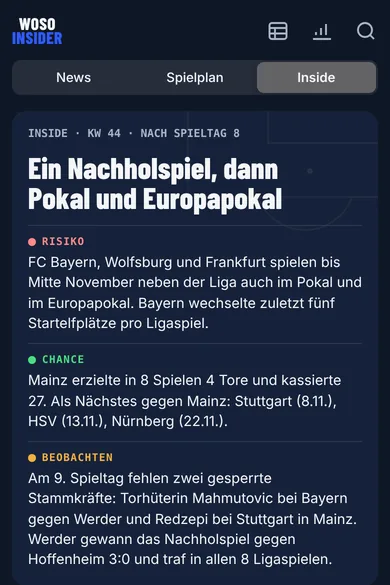
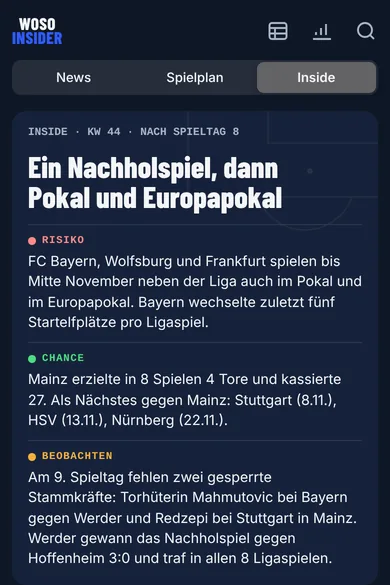
Startseite: sechs Karten (Spielbericht, Analyse, Statistik ergänzt), Screenshots erneuert
screens.py schneidet Reihe 2 automatisch auf den spannenden Teil zu
(Spielfeld, Top-Analyse, Statistik).

Claude-Session: https://claude.ai/code/session_01EZ2JaZwmEmfqmTU7Sm52i7

diff --git a/index.html b/index.html
@@ -119,6 +119,9 @@ footer nav{display:flex;flex-wrap:wrap;gap:4px 18px}footer nav a{color:var(--mut
   <a class="card" href="/ticker/"><span class="shot"><img src="/bilder/news.webp" width="390" height="585" loading="lazy" alt="Ansicht News im Ticker: Meldungen mit Spielerinnenfoto, Vereinswappen und Kategorien"></span><h2>News</h2><p>Mehrmals täglich, an Spieltagen stündlich. Jede Meldung nennt und verlinkt ihre Quelle.</p><span class="more">News öffnen ›</span></a>
   <a class="card" href="/ticker/#spielplan"><span class="shot"><img src="/bilder/spielplan.webp" width="390" height="585" loading="lazy" alt="Ansicht Spielplan im Ticker: Partien des Spieltags mit Anstoßzeiten"></span><h2>Spielplan</h2><p>Ergebnisse, Tore und mögliche Aufstellungen mit Einstufung von Sicher bis Unsicher. Die offizielle Elf ersetzt die Prognose.</p><span class="more">Spielplan öffnen ›</span></a>
   <a class="card" href="/ticker/#inside"><span class="shot"><img src="/bilder/inside.webp" width="390" height="585" loading="lazy" alt="Ansicht Inside im Ticker: wöchentliche Ausgabe mit Risiko, Chance und Beobachten"></span><h2>Inside</h2><p>Einmal pro Woche: Formkurven, Standardschützinnen, Belastung und die Spiele mit Ansage.</p><span class="more">Inside öffnen ›</span></a>
+  <a class="card" href="/ticker/#bayern-pokal-0111"><span class="shot"><img src="/bilder/partie.webp" width="390" height="585" loading="lazy" alt="Spielbericht FC Bayern gegen Bayer Leverkusen: Startelf auf dem Spielfeld mit Wechseln, Karten und Neuen"></span><h2>Spielbericht</h2><p>Jede Partie mit der Elf auf dem Spielfeld, Toren, Vorlagen, Karten und Wechseln. Dazu, wer neu in der Startelf steht und wer fehlt.</p><span class="more">Beispiel ansehen ›</span></a>
+  <a class="card" href="/ticker/#analyse"><span class="shot"><img src="/bilder/analyse.webp" width="390" height="585" loading="lazy" alt="Top-Analyse: Bayern rotiert, aber nicht nur freiwillig, mit Einsatzminuten je Spieltag"></span><h2>Analyse</h2><p>Jeden Dienstag eine große Analyse: wer gesetzt ist, wer rotiert und was das für die nächsten Spieltage heißt.</p><span class="more">Analyse lesen ›</span></a>
+  <a class="card" href="/ticker/#statistik"><span class="shot"><img src="/bilder/statistik.webp" width="390" height="585" loading="lazy" alt="Statistik: Torschützinnenliste mit Spielerinnenfotos"></span><h2>Statistik</h2><p>Tore, Vorlagen, Scorerpunkte, Joker-Tore, weiße Westen, Karten und Fairnesstabelle. Nur Liga, nach jedem Spieltag aktuell.</p><span class="more">Statistik öffnen ›</span></a>
 </section>
 <p class="note">Kein Konto, keine Cookies, kein Tracking, keine Werbung. Fragen, Hinweise oder Korrekturen an <a href="mailto:redaktion@wosoinsider.de">redaktion@wosoinsider.de</a>.</p>
 </main>

diff --git a/tools/bau.py b/tools/bau.py
@@ -129,6 +129,9 @@ START = f"""<section class="hero">
   <a class="card" href="/ticker/"><span class="shot"><img src="/bilder/news.webp" width="390" height="585" loading="lazy" alt="Ansicht News im Ticker: Meldungen mit Spielerinnenfoto, Vereinswappen und Kategorien"></span><h2>News</h2><p>Mehrmals täglich, an Spieltagen stündlich. Jede Meldung nennt und verlinkt ihre Quelle.</p><span class="more">News öffnen ›</span></a>
   <a class="card" href="/ticker/#spielplan"><span class="shot"><img src="/bilder/spielplan.webp" width="390" height="585" loading="lazy" alt="Ansicht Spielplan im Ticker: Partien des Spieltags mit Anstoßzeiten"></span><h2>Spielplan</h2><p>Ergebnisse, Tore und mögliche Aufstellungen mit Einstufung von Sicher bis Unsicher. Die offizielle Elf ersetzt die Prognose.</p><span class="more">Spielplan öffnen ›</span></a>
   <a class="card" href="/ticker/#inside"><span class="shot"><img src="/bilder/inside.webp" width="390" height="585" loading="lazy" alt="Ansicht Inside im Ticker: wöchentliche Ausgabe mit Risiko, Chance und Beobachten"></span><h2>Inside</h2><p>Einmal pro Woche: Formkurven, Standardschützinnen, Belastung und die Spiele mit Ansage.</p><span class="more">Inside öffnen ›</span></a>
+  <a class="card" href="/ticker/#bayern-pokal-0111"><span class="shot"><img src="/bilder/partie.webp" width="390" height="585" loading="lazy" alt="Spielbericht FC Bayern gegen Bayer Leverkusen: Startelf auf dem Spielfeld mit Wechseln, Karten und Neuen"></span><h2>Spielbericht</h2><p>Jede Partie mit der Elf auf dem Spielfeld, Toren, Vorlagen, Karten und Wechseln. Dazu, wer neu in der Startelf steht und wer fehlt.</p><span class="more">Beispiel ansehen ›</span></a>
+  <a class="card" href="/ticker/#analyse"><span class="shot"><img src="/bilder/analyse.webp" width="390" height="585" loading="lazy" alt="Top-Analyse: Bayern rotiert, aber nicht nur freiwillig, mit Einsatzminuten je Spieltag"></span><h2>Analyse</h2><p>Jeden Dienstag eine große Analyse: wer gesetzt ist, wer rotiert und was das für die nächsten Spieltage heißt.</p><span class="more">Analyse lesen ›</span></a>
+  <a class="card" href="/ticker/#statistik"><span class="shot"><img src="/bilder/statistik.webp" width="390" height="585" loading="lazy" alt="Statistik: Torschützinnenliste mit Spielerinnenfotos"></span><h2>Statistik</h2><p>Tore, Vorlagen, Scorerpunkte, Joker-Tore, weiße Westen, Karten und Fairnesstabelle. Nur Liga, nach jedem Spieltag aktuell.</p><span class="more">Statistik öffnen ›</span></a>
 </section>
 <p class="note">Kein Konto, keine Cookies, kein Tracking, keine Werbung. Fragen, Hinweise oder Korrekturen an <a href="mailto:{MAIL}">{MAIL}</a>.</p>"""
 

diff --git a/tools/screens.py b/tools/screens.py
@@ -1,29 +1,46 @@
-"""Erneuert die Screenshots der Startseite (bilder/news.webp, spielplan.webp, inside.webp).
+"""Erneuert die Screenshots der Startseite (bilder/*.webp).
 
 Aufruf: python3 tools/screens.py <zielordner, z. B. bilder>
 Fotografiert den Live-Ticker auf wosoinsider.de im iPhone-Format (390 px breit, 2x),
 schneidet auf 2:3 zu und speichert als WebP in 390 x 585. Aufrufe laufen über ?intern,
 zählen also nicht in GoatCounter mit.
+
+Reihe 1 zeigt die Reiter von oben. Reihe 2 springt auf den spannenden Teil:
+Ausschnitt beginnt am angegebenen Text (minus Abstand). Partie und Analyse sind
+fest gewählt; bei einer neuen Partie oder Analyse hier den Hash anpassen und in
+tools/bau.py (START) Link und Text nachziehen.
 """
 import io, os, sys
 from PIL import Image
 from playwright.sync_api import sync_playwright
 
-ANSICHTEN = [("news", ""), ("spielplan", "#spielplan"), ("inside", "#inside")]
+# Name, Hash, Text, an dem der Ausschnitt beginnt (None = oben), Abstand nach oben in px
+ANSICHTEN = [
+    ("news", "", None, 0),
+    ("spielplan", "#spielplan", None, 0),
+    ("inside", "#inside", None, 0),
+    ("partie", "#bayern-pokal-0111", "Aufstellung im Spiel", 16),
+    ("analyse", "#analyse", "Top-Analyse", 26),
+    ("statistik", "#statistik", "Nur Liga, nach dem", 60),
+]
 
 def main(ziel):
     os.makedirs(ziel, exist_ok=True)
     with sync_playwright() as pw:
         b = pw.chromium.launch()
         p = b.new_context(viewport={"width": 390, "height": 780}, device_scale_factor=2).new_page()
-        for name, hash_ in ANSICHTEN:
+        for name, hash_, text, abstand in ANSICHTEN:
             p.goto("about:blank")
             p.goto("https://wosoinsider.de/ticker/?intern" + hash_, wait_until="networkidle")
-            p.wait_for_timeout(3500)
-            im = Image.open(io.BytesIO(p.screenshot())).convert("RGB")
-            im = im.crop((0, 0, 780, 1170)).resize((390, 585), Image.LANCZOS)
+            p.wait_for_timeout(4000)
+            y = 0
+            if text:
+                box = p.get_by_text(text).first.bounding_box()
+                y = max(0, int(box["y"] + p.evaluate("window.scrollY")) - abstand)
+            im = Image.open(io.BytesIO(p.screenshot(full_page=True))).convert("RGB")
+            im = im.crop((0, 2 * y, 780, 2 * y + 1170)).resize((390, 585), Image.LANCZOS)
             im.save(os.path.join(ziel, name + ".webp"), "WEBP", quality=82, method=6)
-            print("ok", name)
+            print("ok", name, y)
         b.close()
 
 if __name__ == "__main__":

diff --git a/README.md b/README.md
@@ -3,7 +3,7 @@
 Webseite zur App WOSOINSIDER (GitHub Pages, eigene Domain wosoinsider.de).
 
 - Start, Support, Impressum, Datenschutz, KI-Hinweis. Kopfzeile nur mit Logo, alle Links stehen im Fuß.
-- Startseite: Karten News, Spielplan, Inside verlinken in den Ticker (/ticker/, #spielplan, #inside) und zeigen Screenshots aus bilder/. Erneuern mit `python3 tools/screens.py bilder`.
+- Startseite: sechs Karten verlinken in den Ticker (News, #spielplan, #inside, Spielbericht #bayern-pokal-0111, #analyse, #statistik) und zeigen Screenshots aus bilder/. Neue Beispiel-Partie oder Analyse: Hash in tools/screens.py und tools/bau.py anpassen. Erneuern mit `python3 tools/screens.py bilder`.
 - Rechtstexte kommen aus derselben Quelle wie `legal.json` der App (`tools/legal_bau.py`).
 - Neu bauen: `python3 tools/legal_bau.py <altes legal.json> <neues legal.json> <legal_html.json>`, dann `python3 tools/bau.py <legal.json> .`
 - /ticker/: Webversion des Newstickers. Gebaut mit `python3 tools/ticker_bau.py <index.html aus dem Artifact> ticker/index.html`; Daten kommen live aus fbl-daten. Nach jeder Änderung an der index.html im Artifact neu bauen. Bis zum Launch noindex und nicht verlinkt.
